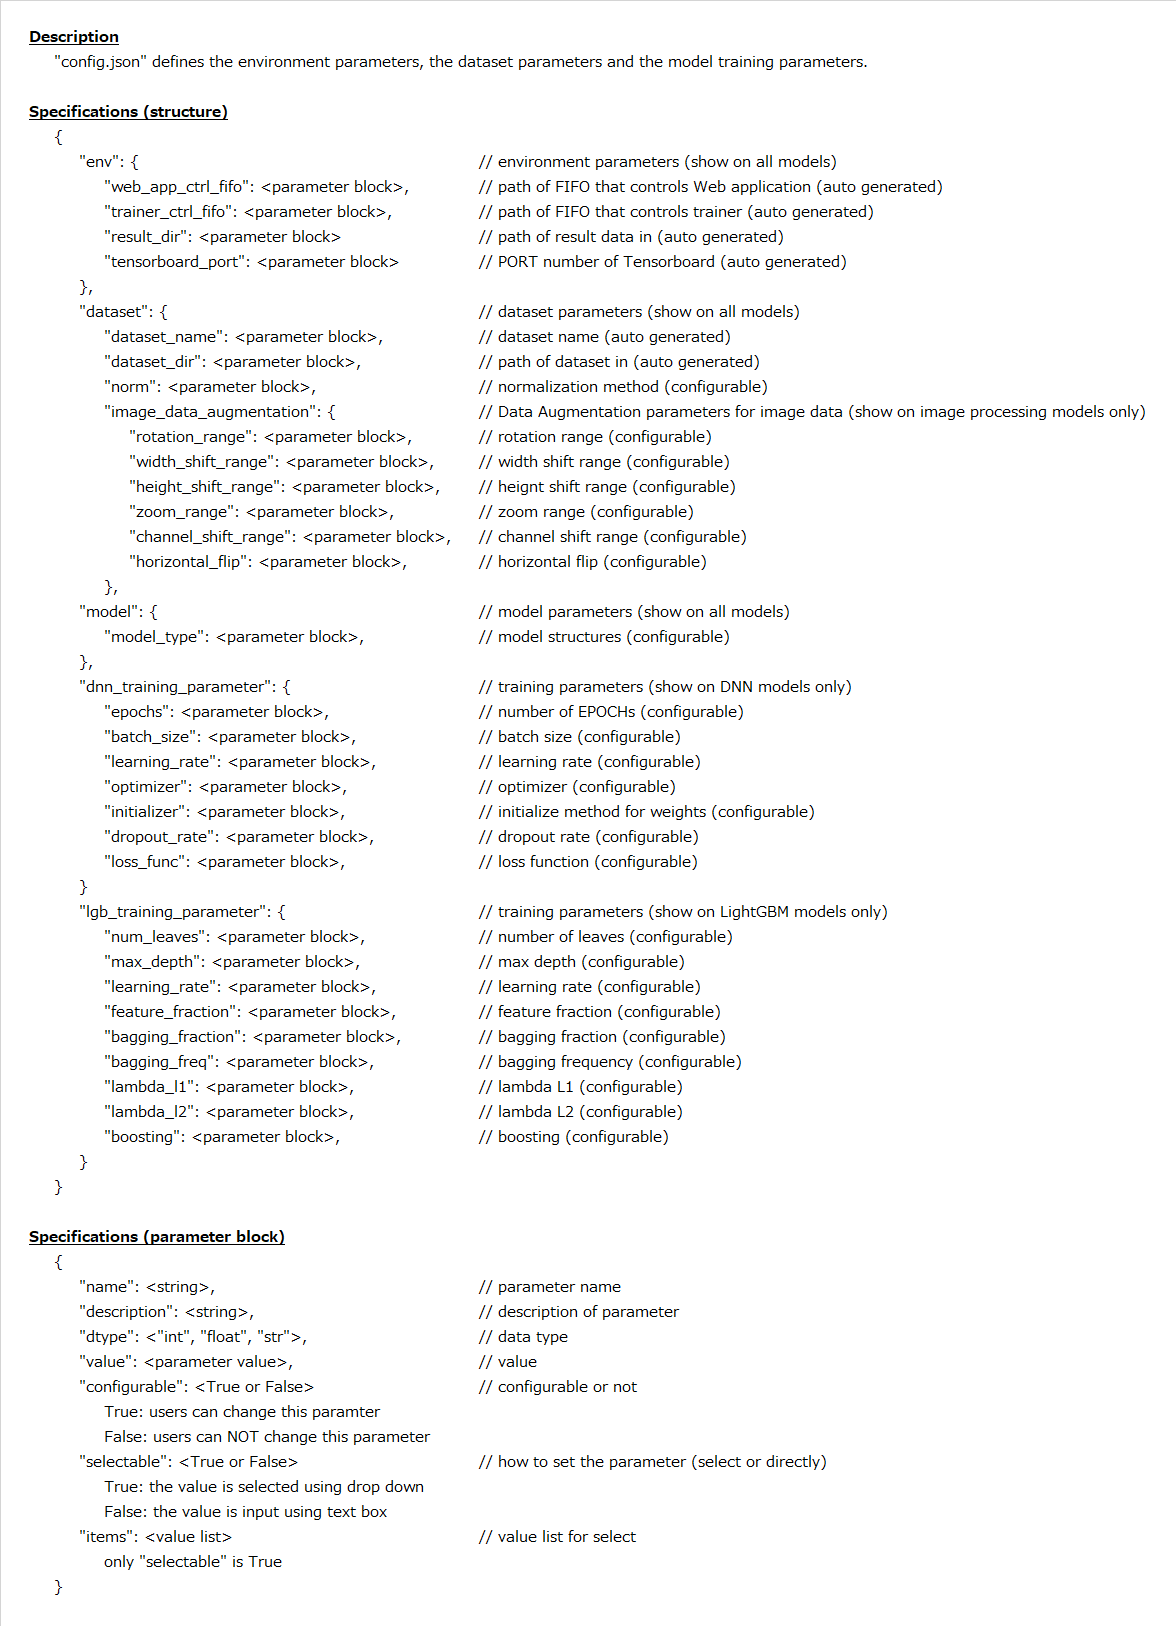
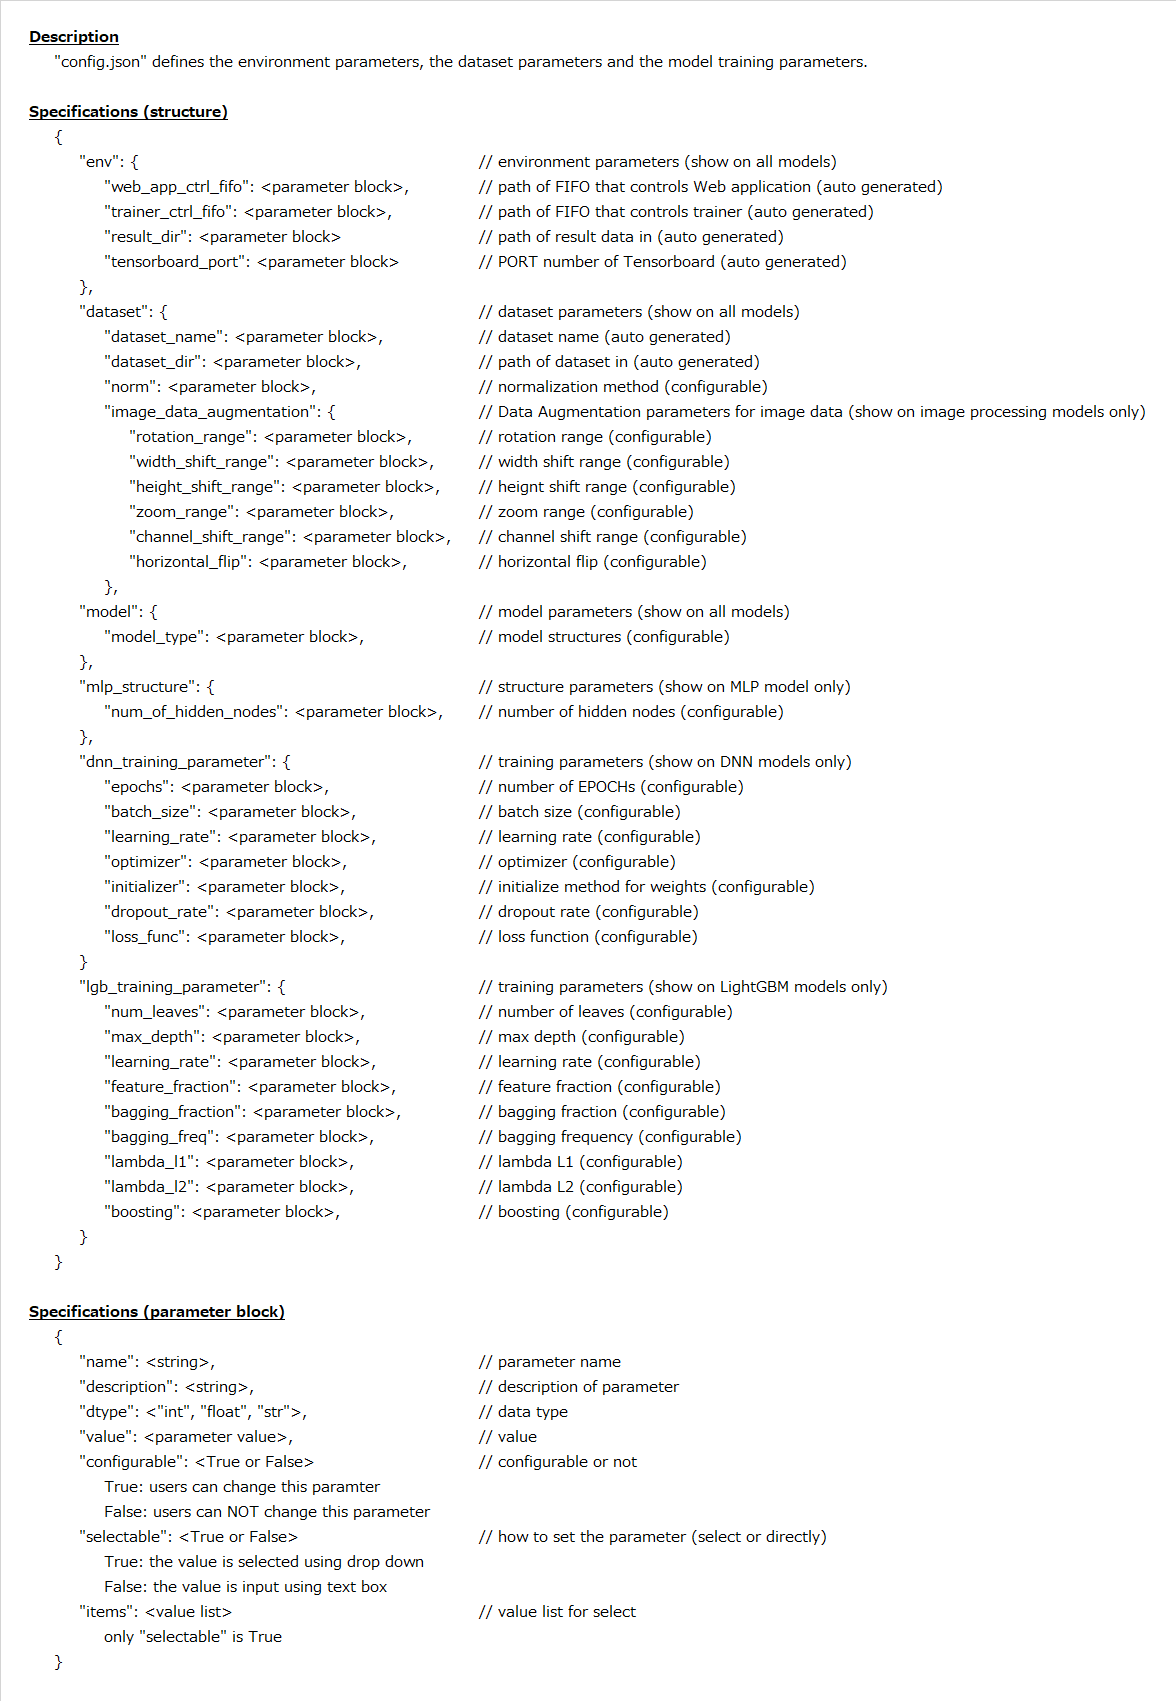
update MLP model training (add parameter about MLP structure)

diff --git a/django_project/templates/model_parameter_edit.html b/django_project/templates/model_parameter_edit.html
@@ -4,7 +4,7 @@
 {% block main %}
 <div class="container-fluid">
   <h2>Edit Model Parameter</h2>
-    
+  
   <form method="POST">{% csrf_token %}
     <h3>Model</h3>
     {% for key, value in config.model.items %}
@@ -50,6 +50,50 @@
   </form>
   
   <form method="POST">{% csrf_token %}
+    <h3>Model Structure</h3>
+    {% if config.model.model_type.value|stringformat:'s' == "MLP" %}
+      {% for key, value in config.mlp_structure.items %}
+        {% if value.configurable %}
+            {% if value.selectable %}
+              <label class="form-label">{{ value.name }}</label>
+              <div class="dropdown mb-3">
+                <button type="button" class="btn btn-primary dropdown-toggle" id="{{ key }}_dropdown" data-bs-toggle="dropdown" aria-expanded="false">
+                  {{ value.value }}
+                </button>
+                <ul class="dropdown-menu" area-labelledby="{{ key }}_dropdown" id="{{ key }}_dropdown_list">
+                {% for item in value.items %}
+                  <li><button type="button" class="dropdown-item" value="{{ item }}">{{ item }}</button></li>
+                {% endfor %}
+                </ul>
+                  <script>
+                    dropdown_list = document.querySelector("#{{ key }}_dropdown_list")
+                    dropdown_list.querySelectorAll('li').forEach( function(el) {
+                      el.addEventListener('click', function() {
+                        // console.log('Click dropdown item');
+                        // console.log(el.textContent);
+                        
+                        display = document.getElementById("{{ key }}_dropdown");
+                        display.innerText = el.textContent;
+                        
+                        ele = document.getElementById("{{ key }}")
+                        ele.value = el.textContent;
+                      });
+                    });
+                  </script>
+                  <input type="hidden" name="{{ key }}" id="{{ key }}" value="">
+              </div>
+            {% else %}
+              <label class="form-label">{{ value.name }}</label>
+              <div class="mb-3">
+                <input type="text" name="{{ key }}" class="form-control" value="{{ value.value }}" placeholder="{{ value.description }}" required>
+              </div>
+            {% endif %}
+        {% endif %}
+      {% endfor %}
+    {% else %}
+      <p>T.B.D</p>
+    {% endif %}
+  
     <h3>Dataset</h3>
     {% for key, value in config.dataset.items %}
       {% if value.configurable %}

diff --git a/django_project/app/machine_learning/lib/trainer/trainer_keras.py b/django_project/app/machine_learning/lib/trainer/trainer_keras.py
@@ -3,6 +3,7 @@
 #---------------------------------
 # モジュールのインポート
 #---------------------------------
+import io
 import os
 import fcntl
 import gc
@@ -736,7 +737,8 @@ class TrainerKerasMLP(Trainer):
                  initializer='glorot_uniform', optimizer='adam', loss='sparse_categorical_crossentropy',
                  dropout_rate=0.0, learning_rate=0.001,
                  dataset_type='img_clf', da_params=None,
-                 batch_size=32, epochs=200):
+                 batch_size=32, epochs=200,
+                 num_of_hidden_nodes='128,64'):
         """Constructor
         
         コンストラクタ
@@ -780,10 +782,11 @@ class TrainerKerasMLP(Trainer):
             
             model = keras.models.Sequential()
             model.add(keras.layers.Flatten(input_shape=input_shape))
-            model.add(keras.layers.Dense(128,
-                                         kernel_initializer=self.initializer,
-                                         bias_initializer='zeros',
-                                         activation=hidden_activation))
+            for num in self.num_of_hidden_nodes:
+                model.add(keras.layers.Dense(num,
+                                             kernel_initializer=self.initializer,
+                                             bias_initializer='zeros',
+                                             activation=hidden_activation))
             model.add(keras.layers.Dense(classes,
                                          kernel_initializer=self.initializer,
                                          bias_initializer='zeros',
@@ -792,6 +795,9 @@ class TrainerKerasMLP(Trainer):
             model.summary()
             
             return model
+        
+        # --- MLP固有パラメータの取得 ---
+        self.num_of_hidden_nodes = pd.read_csv(io.StringIO(num_of_hidden_nodes), header=None, skipinitialspace=True).values[0].tolist()
         
         # --- 基底クラスの初期化 ---
         super().__init__(output_dir=output_dir, model_file=model_file,

diff --git a/django_project/app/machine_learning/main.py b/django_project/app/machine_learning/main.py
@@ -177,13 +177,17 @@ def main():
     
     if (model_type == 'MLP'):
         print('Create MLP')
+        
+        num_of_hidden_nodes = config_data['mlp_structure']['num_of_hidden_nodes']['value']
+        
         trainer = TrainerKerasMLP(dataset.train_x.shape[1:], classes=output_dims,
             output_dir=result_dir, model_file=model_file,
             web_app_ctrl_fifo=web_app_ctrl_fifo, trainer_ctrl_fifo=trainer_ctrl_fifo, 
             initializer=initializer, optimizer=optimizer, loss=loss_func,
             dropout_rate=dropout_rate, learning_rate=learning_rate,
             dataset_type=dataset.dataset_type, da_params=image_data_augmentation,
-            batch_size=batch_size, epochs=epochs)
+            batch_size=batch_size, epochs=epochs,
+            num_of_hidden_nodes=num_of_hidden_nodes)
     elif (model_type == 'SimpleCNN'):
         print('Create SimpleCNN')
         trainer = TrainerKerasCNN(dataset.train_x.shape[1:], classes=output_dims,

diff --git a/django_project/app/views_training.py b/django_project/app/views_training.py
@@ -290,6 +290,10 @@ def model_parameter_edit(request, model_id):
                 json.dump(config_data, f, ensure_ascii=False, indent=4)
         
         elif ('apply_parameters' in request.POST):
+            # --- save model structure parameters ---
+            save_config_list = [key for key in config_data['mlp_structure'].keys() if config_data['mlp_structure'][key]['configurable']]
+            _set_config_parameters(config_data['mlp_structure'], save_config_list)
+            
             # --- save dataset parameters ---
             save_config_list = [key for key in config_data['dataset'].keys() if ((key != 'image_data_augmentation') and (config_data['dataset'][key]['configurable']))]
             _set_config_parameters(config_data['dataset'], save_config_list)

diff --git a/tools/create_config/ml_params.py b/tools/create_config/ml_params.py
@@ -133,6 +133,16 @@ class MlParams():
                     'items': ['MLP', 'SimpleCNN', 'DeepCNN', 'SimpleResNet', 'DeepResNet', 'LightGBM'],
                 },
             },
+            'mlp_structure': {
+                'num_of_hidden_nodes': {
+                    'name': 'Number of Hidden Nodes',
+                    'description': 'Number of hidden nodes in each layers (specify comma separated string)',
+                    'dtype': 'str',
+                    'value': '128,64',
+                    'configurable': True,
+                    'selectable': False,
+                },
+            },
             'dnn_training_parameter': {
                 'optimizer': {
                     'name': 'Optimizer',
